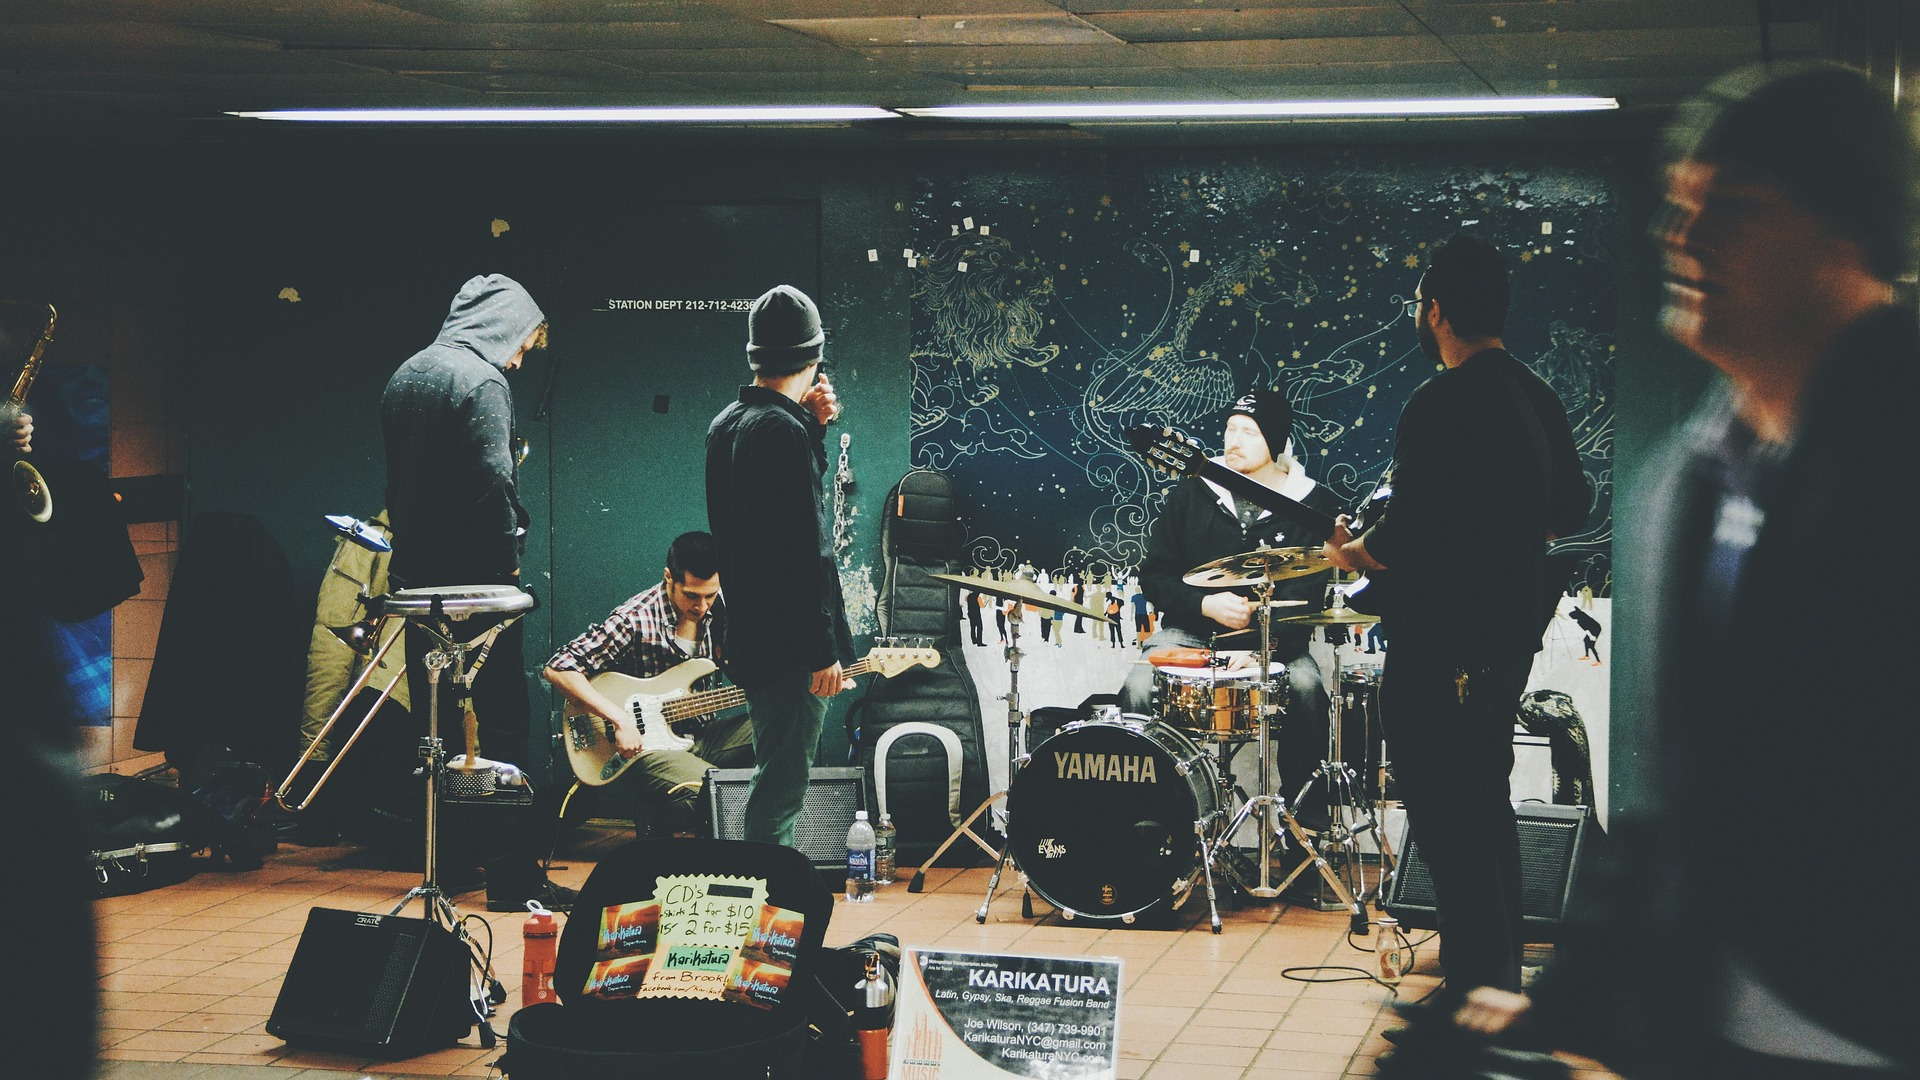
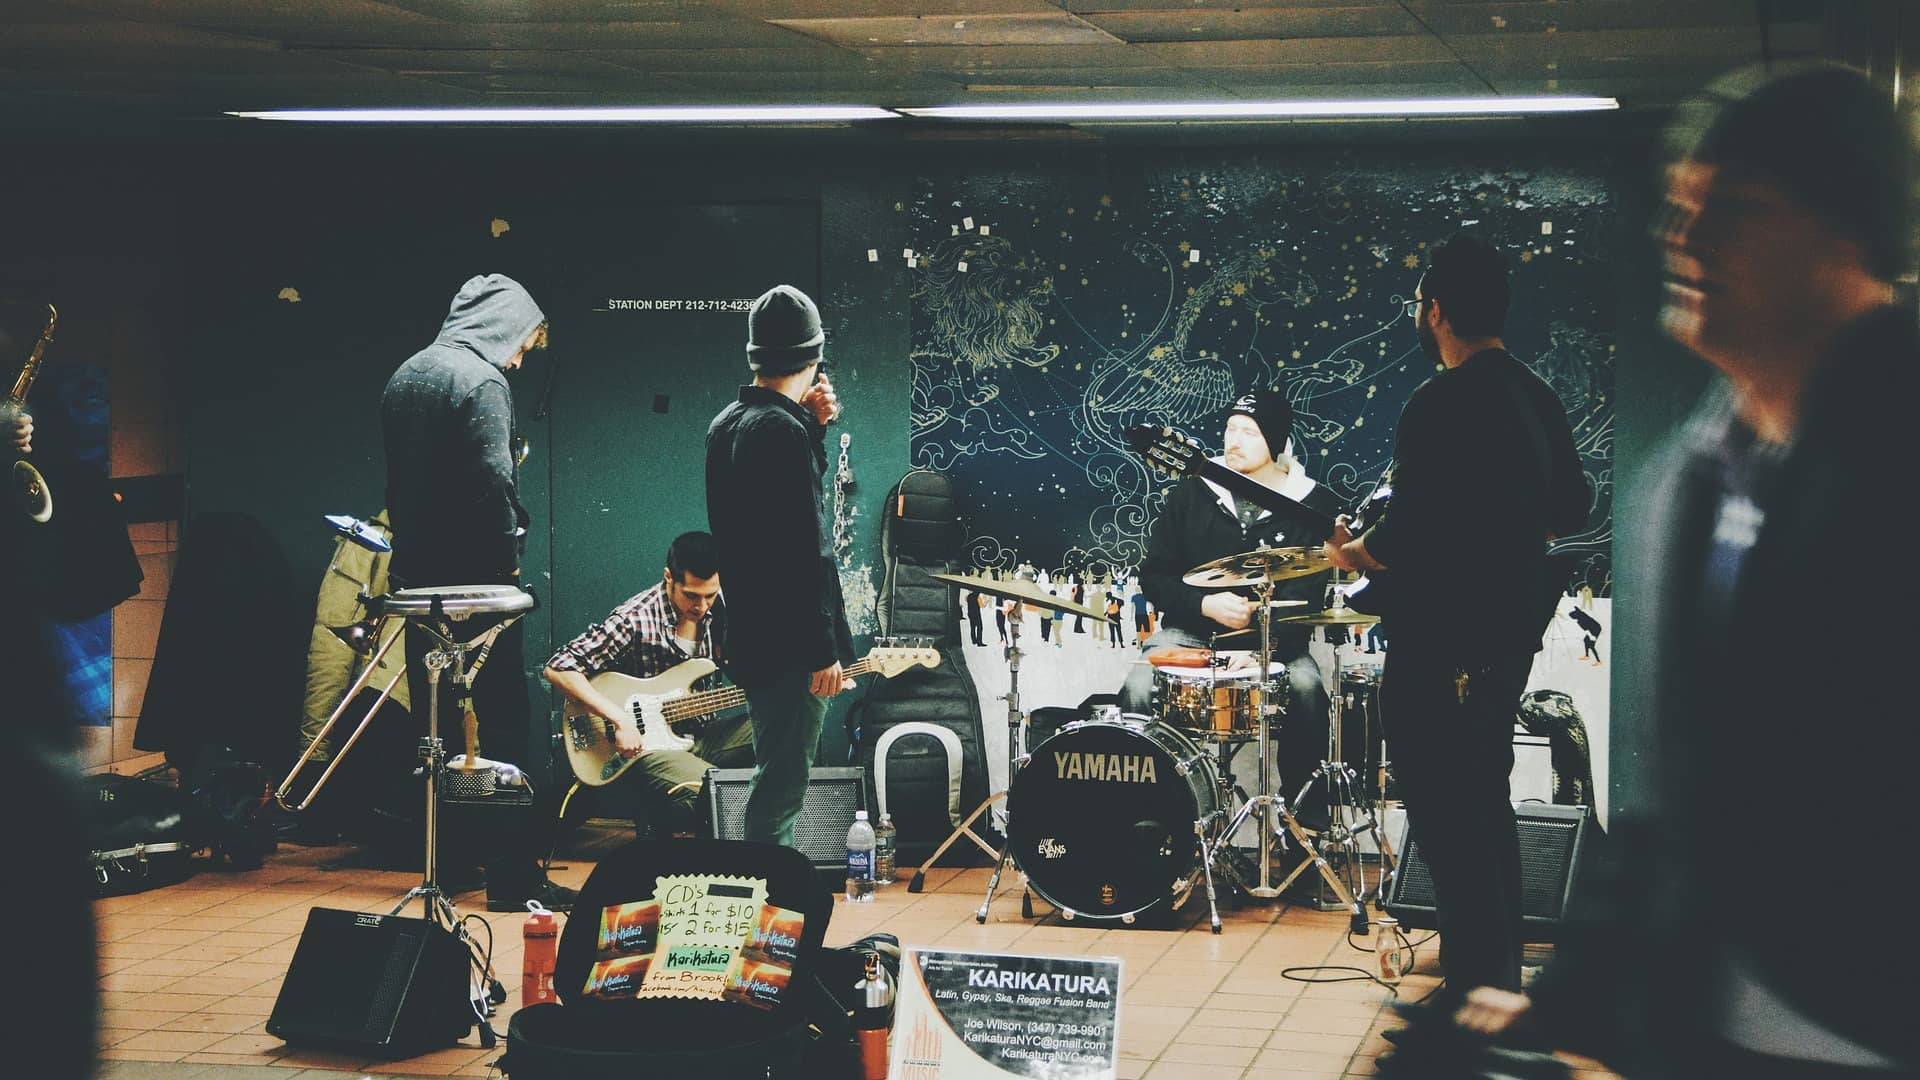
[#30]refactor: 이미지 최적화

Changed region(s): [[0.5938, 0.3972, 0.625, 0.4278]]

diff --git a/src/app/(home)/_components/animations/MainAnimation.tsx b/src/app/(home)/_components/animations/MainAnimation.tsx
@@ -1,6 +1,7 @@
 "use client";
 
 import dynamic from "next/dynamic";
+import { memo } from "react";
 
 import offlineAnimation from "@/assets/animations/offline.json";
 import onlineAnimation from "@/assets/animations/online.json";
@@ -11,7 +12,7 @@ interface IMainAnimationProps {
   type: "online" | "offline";
 }
 
-const MainAnimation = ({ type }: IMainAnimationProps) => {
+const MainAnimation = memo(({ type }: IMainAnimationProps) => {
   return (
     <Lottie
       animationData={type === "online" ? onlineAnimation : offlineAnimation}
@@ -21,6 +22,8 @@ const MainAnimation = ({ type }: IMainAnimationProps) => {
       style={{ maxWidth: "500px" }}
     />
   );
-};
+});
+
+MainAnimation.displayName = "MainAnimation";
 
 export default MainAnimation;

diff --git a/src/app/(home)/_components/MainCarouselItem.tsx b/src/app/(home)/_components/MainCarouselItem.tsx
@@ -20,7 +20,7 @@ const MainCarouselItem = ({ gathering }: IMainCarouselItemProps) => {
           src={gathering.image || "/images/gathering_default.png"}
           alt="carousel-item"
           fill
-          sizes="60vw"
+          sizes="(max-width: 768px) 150px, (max-width: 1024px) 240px, 260px"
           className="object-cover transition-all duration-300 hover:scale-110"
         />
       </div>

diff --git a/src/app/gathering/detail/[id]/_components/GatheringImage.tsx b/src/app/gathering/detail/[id]/_components/GatheringImage.tsx
@@ -20,7 +20,7 @@ const GatheringImage = ({ id }: IGatheringImageProps) => {
         src={data.image || "/images/gathering_default.png"}
         alt="gathering-image"
         fill
-        sizes="(max-width: 768px) 100vw, 50vw"
+        sizes="(max-width: 768px) 90vw, 40vw"
         className="object-cover"
         priority
       />
